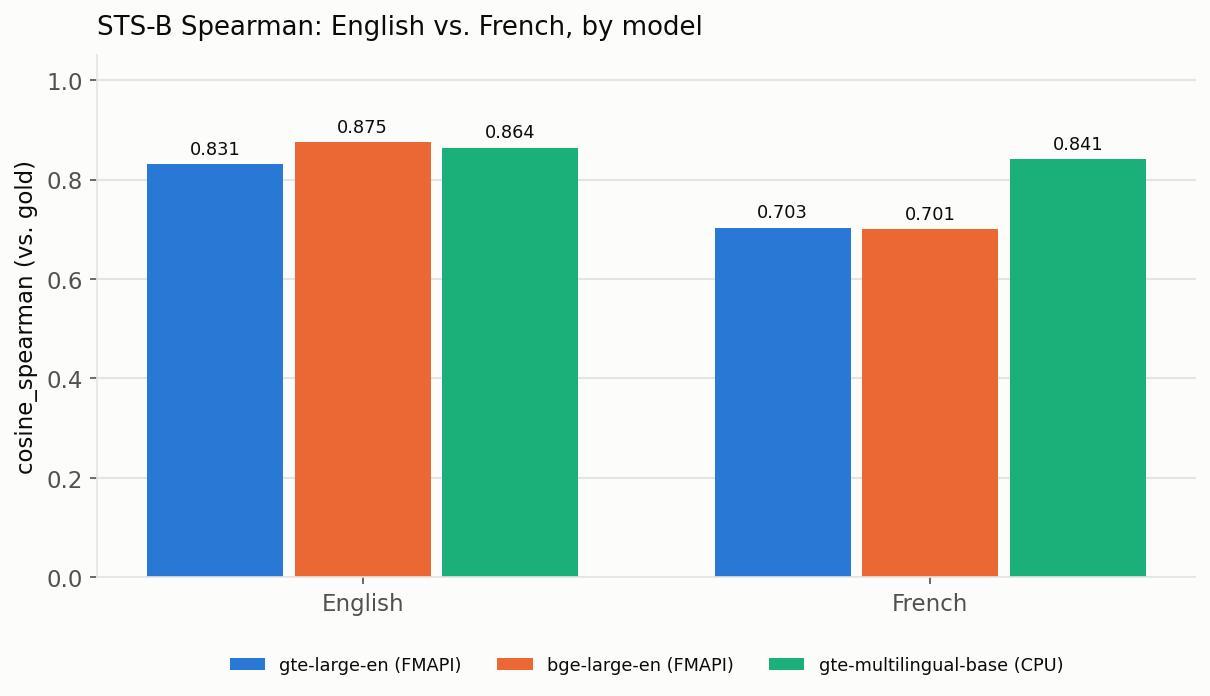
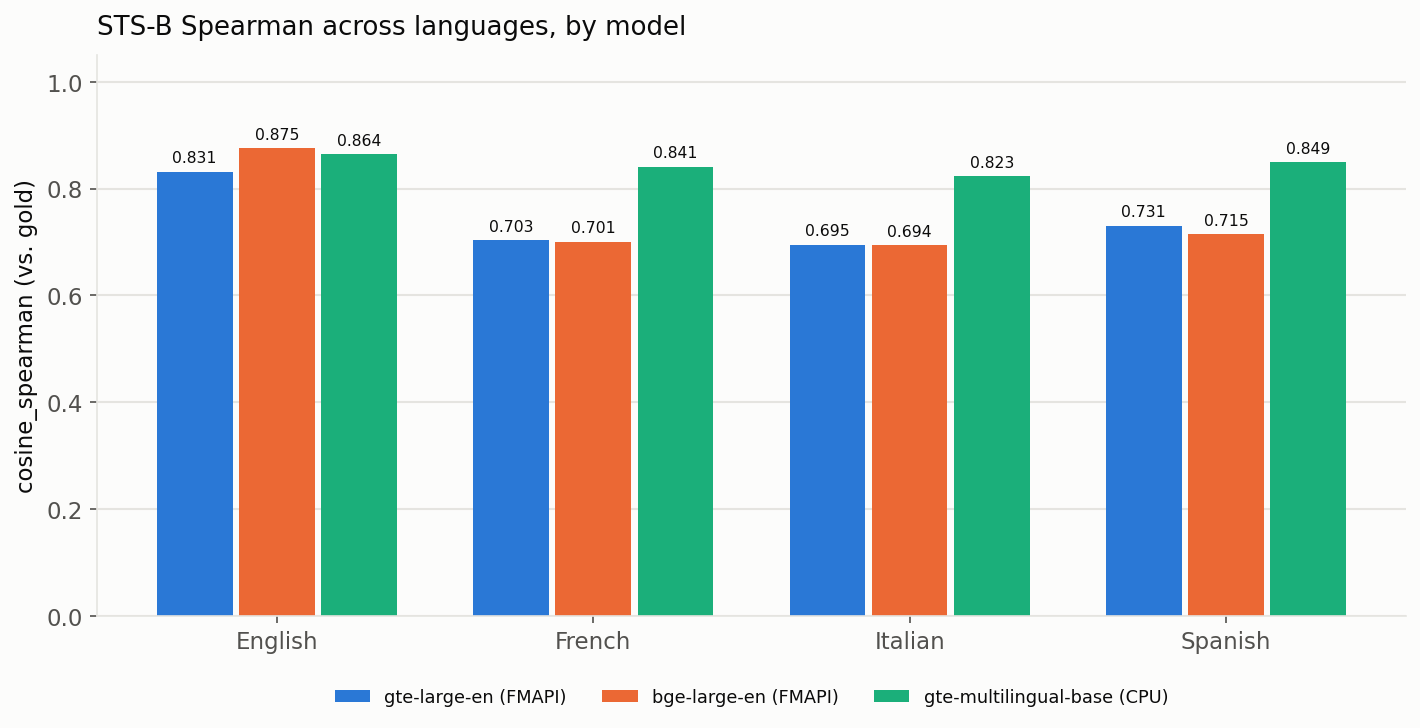
Add Italian and Spanish to the benchmark (4 languages)
Extends LANGS to en/fr/it/es (same 1,379 STS-B pairs per language). Charts
generalized: chart 1 = Spearman across languages by model; chart 2 = cross-
lingual retention (mean non-EN / EN) per model. Results:
  gte-large-en          EN .831 FR .703 IT .695 ES .731  retention .854
  bge-large-en          EN .875 FR .701 IT .694 ES .715  retention .803
  gte-multilingual-base EN .864 FR .841 IT .823 ES .849  retention .969
English-only models drop to ~0.70 on all Romance languages; multilingual
wins FR/IT/ES and retains ~97%. Renames the second chart to
cross_lingual_retention.png; updates notebook, README, SPECS, RESULTS.

diff --git a/gte-french/README.md b/gte-french/README.md
@@ -1,44 +1,49 @@
-# GTE / BGE embeddings — French vs. English benchmark
+# GTE / BGE embeddings — English vs. French / Italian / Spanish
 
-How much embedding quality do English-tuned models lose on **French** vs. **English**, and
-does a **multilingual** model close that gap? Three models, same pairs and metric:
+How much embedding quality do English-tuned models lose on other languages, and does a
+**multilingual** model close that gap? Three models, same pairs and metric:
 
 - **`databricks-gte-large-en`** — Databricks FMAPI endpoint (English-tuned GTE)
 - **`databricks-bge-large-en`** — Databricks FMAPI endpoint (English-tuned BGE)
 - **`Alibaba-NLP/gte-multilingual-base`** — downloaded from HuggingFace, run locally on CPU
 
 The benchmark runs the [STS Benchmark](https://huggingface.co/datasets/PhilipMay/stsb_multi_mt)
-in parallel on both languages — the *same* 1,379 sentence pairs with *identical* gold
-similarity scores — and measures the Spearman correlation between cosine similarity and the
-gold score (`cosine_spearman`, MTEB's standard STS metric). Because the pairs and labels are
-identical across languages, any gap is attributable to language alone.
+in parallel across **English, French, Italian, and Spanish** — the *same* 1,379 pairs per
+language with *identical* gold similarity scores — and measures the Spearman correlation
+between cosine similarity and the gold score (`cosine_spearman`, MTEB's standard STS metric).
+Because the pairs and labels are identical across languages, any gap is attributable to
+language alone. English is the reference.
 
 ## Results
 
-![STS-B Spearman: English vs. French, by model](assets/sts_by_model.png)
+![STS-B Spearman across languages, by model](assets/sts_by_model.png)
 
-![French STS-B Spearman, by model](assets/french_model_comparison.png)
+![Cross-lingual retention by model](assets/cross_lingual_retention.png)
 
-| Model | EN `cosine_spearman` | FR `cosine_spearman` | FR/EN ratio |
-|-------|---------------------:|---------------------:|------------:|
-| `gte-large-en` (FMAPI) | 0.831 | 0.703 | 0.846 |
-| `bge-large-en` (FMAPI) | **0.875** | 0.701 | 0.801 |
-| `gte-multilingual-base` (CPU) | 0.864 | **0.841** | **0.973** |
+| Model | EN | FR | IT | ES | retention* |
+|-------|---:|---:|---:|---:|-----------:|
+| `gte-large-en` (FMAPI) | 0.831 | 0.703 | 0.695 | 0.731 | 0.854 |
+| `bge-large-en` (FMAPI) | **0.875** | 0.701 | 0.694 | 0.715 | 0.803 |
+| `gte-multilingual-base` (CPU) | 0.864 | **0.841** | **0.823** | **0.849** | **0.969** |
+
+\* retention = mean(FR, IT, ES `cosine_spearman`) ÷ EN `cosine_spearman`. Values are Spearman.
 
 ### Verdict
 
-Both English-tuned FMAPI endpoints land at **~0.70 on French** despite strong English
-scores — `bge-large-en` is actually the best model on English (0.875) but drops the hardest
-on French (FR/EN 0.80). So a higher English score does **not** predict French quality.
+Both English-tuned FMAPI endpoints fall to **~0.69–0.73** on French, Italian, and Spanish
+despite strong English scores — `bge-large-en` is the best model on English (0.875) yet has
+the **worst** cross-lingual retention (0.80). A higher English score does **not** predict
+quality in other languages.
 
-**`gte-multilingual-base` is the clear choice for French:** French Spearman **0.841**
-(+0.14 over either English-only model), an FR/EN ratio of **0.97**. The trade-off is hosting
-it yourself (here: downloaded from HuggingFace, run on CPU) rather than a managed FMAPI
-endpoint.
+**`gte-multilingual-base` is the clear choice for non-English:** it wins FR, IT, and ES
+outright (0.82–0.85) and retains **97%** of its English quality across them. The trade-off is
+hosting it yourself (here: downloaded from HuggingFace, run on CPU) rather than a managed
+FMAPI endpoint.
 
 ## Running it
 
-`benchmark_gte_french.ipynb` runs on **serverless** compute and benchmarks all three models:
+`benchmark_gte_french.ipynb` runs on **serverless** compute and benchmarks all three models
+across the four languages:
 
 - **`gte-large-en`** and **`bge-large-en`** via their FMAPI endpoints (no local model).
 - **`gte-multilingual-base`** downloaded from HuggingFace and run locally on CPU via
@@ -47,8 +52,9 @@ endpoint.
   via a symlink-dereferenced copy (HF can't download onto a FUSE Volume); load with
   `low_cpu_mem_usage=False` and rebuild the non-persistent `position_ids`/RoPE buffers.
 
-On first run it downloads STS-B and the model into a UC Volume and caches both; later runs
-skip the downloads.
+Languages are set by `LANGS` in the config cell (any subset of the dataset's `en`, `fr`,
+`it`, `es`, `de`, `nl`, `pl`, `pt`, `ru`, `zh`). On first run it downloads STS-B (per
+language) and the model into a UC Volume and caches them; later runs skip the downloads.
 
 - **Cache + results:** `/Volumes/<catalog>/<schema>/<volume>/` (edit the `CATALOG`/`SCHEMA`
   config cell). Results are written to `results_gte_french.csv` there.
@@ -63,7 +69,7 @@ skip the downloads.
 
 | Path | What |
 |------|------|
-| [`benchmark_gte_french.ipynb`](benchmark_gte_french.ipynb) | The three-model benchmark notebook |
+| [`benchmark_gte_french.ipynb`](benchmark_gte_french.ipynb) | The benchmark notebook (3 models × 4 languages) |
 | [`test_multilingual_load.ipynb`](test_multilingual_load.ipynb) | Diagnostic: load the multilingual model on CPU |
 | [`SPEC/SPECS.md`](SPEC/SPECS.md) | Full specification (dataset, metric, method) |
 | [`SPEC/RESULTS.md`](SPEC/RESULTS.md) | Recorded run + verdict |

diff --git a/gte-french/SPEC/RESULTS.md b/gte-french/SPEC/RESULTS.md
@@ -1,38 +1,44 @@
-# Results — GTE / BGE embeddings, French vs. English (STS)
+# Results — GTE / BGE embeddings, English vs. French / Italian / Spanish (STS)
 
 Run of `benchmark_gte_french.ipynb` per [`SPECS.md`](./SPECS.md).
 
 - **Models:** `databricks-gte-large-en` (FMAPI), `databricks-bge-large-en` (FMAPI), and
   `Alibaba-NLP/gte-multilingual-base` (downloaded from HuggingFace, run locally on CPU via
   `sentence-transformers`)
-- **Dataset:** `PhilipMay/stsb_multi_mt`, `test` split, 1,379 pairs per language
+- **Dataset:** `PhilipMay/stsb_multi_mt`, `test` split, 1,379 pairs per language, languages
+  `en` (reference), `fr`, `it`, `es`
 - **Metric:** Spearman correlation of cosine similarity vs. gold score (`cosine_spearman`)
 - **Compute:** serverless (CPU), workspace `e2-demo-field-eng`
 - **Date:** 2026-09-15
 
-## Headline
+## Headline (cosine_spearman)
 
-| Model | EN spearman | EN pearson | FR spearman | FR pearson | FR/EN (spearman) |
-|-------|------------:|-----------:|------------:|-----------:|-----------------:|
-| `gte-large-en` (FMAPI) | 0.8310 | 0.8338 | 0.7033 | 0.7133 | 0.846 |
-| `bge-large-en` (FMAPI) | 0.8751 | 0.8620 | 0.7006 | 0.7120 | 0.801 |
-| `gte-multilingual-base` (CPU) | 0.8641 | 0.8553 | 0.8411 | 0.8389 | 0.973 |
+| Model | EN | FR | IT | ES | retention* |
+|-------|---:|---:|---:|---:|-----------:|
+| `gte-large-en` (FMAPI) | 0.8310 | 0.7033 | 0.6947 | 0.7311 | 0.854 |
+| `bge-large-en` (FMAPI) | 0.8751 | 0.7006 | 0.6944 | 0.7154 | 0.803 |
+| `gte-multilingual-base` (CPU) | 0.8641 | 0.8411 | 0.8228 | 0.8489 | 0.969 |
 
-**Best on French: `gte-multilingual-base` (0.8411).**
+\* retention = mean(FR, IT, ES) ÷ EN.
+
+**Best per language:** EN → `bge-large-en` (0.8751); FR → `gte-multilingual-base` (0.8411);
+IT → `gte-multilingual-base` (0.8228); ES → `gte-multilingual-base` (0.8489).
 
 ## Verdict
 
-Both English-tuned FMAPI endpoints land at ~0.70 on French despite strong English scores.
-`bge-large-en` is the best model on English (0.875) yet drops the hardest on French (FR/EN
-0.80, French 0.701) — a higher English score does not predict French quality.
+Both English-tuned FMAPI endpoints fall to ~0.69–0.73 on French, Italian, and Spanish despite
+strong English scores. `bge-large-en` is the best on English (0.875) yet has the worst
+cross-lingual retention (0.80) — a higher English score does not predict quality in other
+languages.
 
-`gte-multilingual-base` is the clear choice for French: French Spearman 0.841 (+0.14 over
-either English-only model), an FR/EN ratio of 0.97. The trade-off is self-hosting it (CPU
-here) rather than a managed FMAPI endpoint.
+`gte-multilingual-base` wins FR, IT, and ES outright (0.82–0.85) and retains ~97% of its
+English quality across them. It is the clear choice for non-English work, at the cost of
+self-hosting it (CPU here) rather than a managed FMAPI endpoint.
 
 ## Reproduce
 
-Run `benchmark_gte_french.ipynb` on serverless. STS-B is cached to
+Run `benchmark_gte_french.ipynb` on serverless. Languages are set by `LANGS` in the config
+cell. STS-B is cached per language to
 `/Volumes/lucasbruand_catalog/gte_french_bench/data/stsb/`, the multilingual model to
 `/Volumes/.../data/models/gte-multilingual-base/`, and the results table to
 `results_gte_french.csv` in the same Volume. Re-runs read the caches and skip the downloads.

diff --git a/gte-french/SPEC/SPECS.md b/gte-french/SPEC/SPECS.md
@@ -55,21 +55,23 @@ Both: L2-normalize before cosine similarity; batch requests.
 
 ## 4. Dataset — standard choice
 
-**Primary (standard): the STS Benchmark (STS-B), used parallel in EN and FR.**
+**Primary (standard): the STS Benchmark (STS-B), used parallel across EN / FR / IT / ES.**
 
-- **English:** STS-Benchmark test split — the canonical STS task in the
+- **English (reference):** STS-Benchmark test split — the canonical STS task in the
   [MTEB](https://github.com/embeddings-benchmark/mteb) leaderboard.
-- **French:** [`stsb_multi_mt`](https://huggingface.co/datasets/PhilipMay/stsb_multi_mt),
-  `fr` config — the *same* STS-B pairs machine-translated (DeepL) into French. This is the
-  dataset MTEB uses for its French STS task (`STSBenchmarkMultilingualSTS`, part of the
-  **MTEB-French** suite, [Ciancone et al. 2024](https://arxiv.org/abs/2405.20468)).
+- **Other languages:** [`stsb_multi_mt`](https://huggingface.co/datasets/PhilipMay/stsb_multi_mt)
+  `fr` / `it` / `es` configs — the *same* STS-B pairs machine-translated (DeepL). The `fr`
+  config is the dataset MTEB uses for its French STS task (`STSBenchmarkMultilingualSTS`,
+  part of the **MTEB-French** suite, [Ciancone et al. 2024](https://arxiv.org/abs/2405.20468));
+  the same multilingual STS-B provides `it`/`es` (and `de`/`nl`/`pl`/`pt`/`ru`/`zh`).
 
 Why this is the right standard:
 - It is the recognized MTEB STS task, so results are comparable to published numbers.
-- EN and FR are the **same 1,379 test pairs with identical gold similarity scores**
-  (0.0–5.0 scale), so the EN-vs-FR difference is attributable to language alone — a clean
+- Every language is the **same 1,379 test pairs with identical gold similarity scores**
+  (0.0–5.0 scale), so cross-language differences are attributable to language alone — a clean
   apples-to-apples comparison.
 - No labeling or corpus-construction work on our side.
+- Languages are configurable (`LANGS` in the notebook); English is the retention reference.
 
 **Secondary / optional (only if a retrieval signal is wanted later):** `SICKFr` (French
 STS) as a second STS point, or an MTEB-French retrieval task (e.g. `MintakaFr`,
